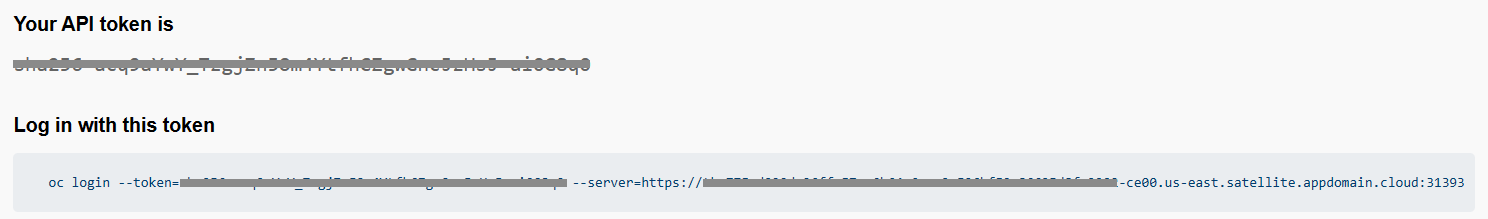
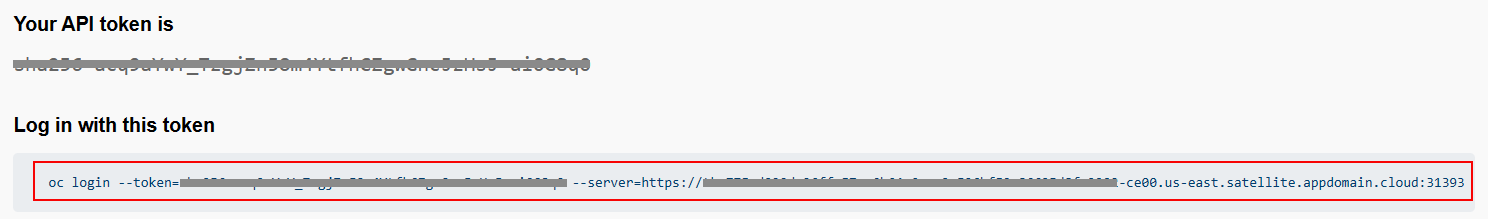
Updated Lab 1 screen shots

Changed region(s): [[0.0309, 0.7123, 0.9892, 0.7671], [0.0, 0.9041, 0.9892, 0.9315]]

diff --git a/README.md b/README.md
@@ -1,97 +1,108 @@
+<style>
+red { color: red }
+yellow { color: yellow }
+</style>
 
 # Lab 1.
 
 ## Deploy Red Hat OpenShift on Satellite Location
 
-In this lab you will be building a Red Hat OpenShift Cluster running in a Satellite Location. A Satellite Location service and a Satellite Control Plane has already been configured that will be used in this lab to deploy additional cloud services. In this Satellite location, you will have three virtual machines dedicated to you that will be utilized as workers for the Red Hat OpenShift cluster that you will be provisioning.
+### In this lab you will be building a Red Hat OpenShift Cluster running in a Satellite Location. The Satellite Location service and a Satellite Control Plane have already been configured that will be used in this lab to deploy additional cloud services. In this Satellite location, you will have two virtual machines dedicated to you that will be utilized as workers for the Red Hat OpenShift cluster that you will be provisioning. These hosts have already been attached to the Satellite location.
 
 ### Log in to the IBM Cloud console
 
-For this environment you will use a custom login screen to login to the IBM Cloud console. Please follow the link below and use the credentials provided to you by the instructors. The link to the custom IBM Cloud Login screen can also be found in the bookmark bar of the browser on your computer.
+### For this environment you will use a custom login screen to login to the IBM Cloud console. Please follow the link below and use the credentials provided to you by the instructors. The link to the custom IBM Cloud Login screen can also be found in the bookmark bar of the browser on your computer.
 
 [IBM Cloud console login](https://cloud.ibm.com/authorize/techxchange23satellite)
 
 ![Login](images/loginpage.png)
 
-When you login, you will land on the dashboard screen. From here we will want to navigate to the Satellite Locations screen. Expand the navigation menu by clicking on the top left navigation. Mouse over the Satellite tab, and select Locations from the pop out menu.
+### When you login, you will land on the dashboard screen for the account. From here you will want to navigate to the Satellite Locations screen. Expand the navigation menu by clicking on the top left navigation. Mouse over the Satellite tab, and select Locations from the pop out menu.
 
 ![Satellite Menu](images/satellitepopoutmenu.png)
 
-On the Locations screen, you will see a location already created with a name of techxchange (or similar). We will use this location. Click this location to navigate to the location detail screen.
+### On the Locations screen, you will see a location already created with a name of techxchange (or similar). We will use this location. Click this location to navigate to the location detail screen.
 
 ![Locations](images/locations-1.png)
 
-Here you will see the details of the current location and should be in a Normal state. Everyone in this lab will be sharing this location, so you will see many hosts attached to this location, however you will only need two hosts.
+### Here you will see the details of the current location and should be in a "Normal" state. Review the information on this screen. Make certain that you see "Hosts available" is two, and "Hosts total" is five.
+
+<yellow>Please locate an instructor if your location is currently in a different state, or if you do not see the available hosts.</yellow>
 
 ![Location Detail](images/locations-2.png)
 
-The next step will be to start to deploy a new service to the Satellite location. From the left navigation, click Services. Here you will see the Satellite service with a cluster name "Control plane". This is the control plane previously created by the lab instructors. This control plane will be used as the master nodes for the Red Hat OpenShift cluster you will create.
+### The next step will be to start to deploy a new service to the Satellite location. From the left navigation, click Services. Here you will see the Satellite service with a cluster name "Control plane". This is the control plane previously created by the lab instructors. In addition to being the control plane for the Satellite lcoation, the control plane hosts will be used as the master nodes for the Red Hat OpenShift cluster you will create.
 
 ![Location Services](images/locations-3.png)
 
-Click on "Create services" and a popout of available services will be displayed. Choose "Red Hat OpenShift on IBM Cloud"
+### Click on "Create services" button on the top right of the table. A popout of available services will be displayed. This is a list of the available services that can be currently deployed to a Satellite location. You will click "Red Hat OpenShift on IBM Cloud". A new window should open, and this is where you will start to make the selections to provision a Red Hat OpenShift on IBM Cloud managed cluster into your Satellite location.
 
 ![Create Service](images/createservice-1.png)
 
-Here you will select the various options to customize your Red hat OpenShift cluster.
+### Here you will select the various options to customize your Red Hat OpenShift cluster. We will go through each of these options individually. Please make certain to select the appropriate options and naming conventions, as some of the lab requires this consistency.
+
+### By default, "Custom cluster" should be selected. You will leave this option selected.
 
 ![Create Service](images/createcluster-1.png)
 
-Choose Custom Cluster (default)
-
-Infrastructure
-Choose Satellite
-Location
-
+### For Infrastructure, "Satellite" should be selected by deafault since we came in from the Satellite location Services screen. Leave this option selected.
 
 ![Create Service](images/createcluster-2.png)
 
-Resource Group select "techxchange-studentXX" with XX being your student number.
+### Location section, you will need to select the correct resource group. Select the "techxchange-studentXX" resource group, with XX being your assigned student number.
 
-Make certain the location is selected.
-
-Default worker pool
+### Make certain the Satellite location is selected by the radio button. This should be the only location, and selected by default.
 
 ![Create Service](images/createcluster-3.png)
 
-Leave host operating system as RHEL 8
-
-Worker pool zones
-uncheck "us-east-3", since we are choosing to only deploy two workers.
-
-vCPUs should be 4
-Memory should be 16
-Worker nodes per zone leave as 1
-
----
-
-**IMPORTANT**
-Default worker pool host labels
-student:XX (XX = student #)
-
-OpenShift version
-choose 4.12.XX
+### Infrastructure topology, this section should be greyed out, as our hosts are RHEL 8 servers and high availability is created by default.
 
 ![Create Service](images/createcluster-4.png)
 
-OpenShift Container Platform (OCP) license
-leave as Purchase additional licenses for this cluster
+### Default worker pool: Host operating system for these hosts are RHEL 8. This option should be selected by default. 
 
-Satellite Config
-Select "Enable cluster admin access for Staellite Config"
+### You will only be using two hosts to provision your cluster, one in zone 1 and zone 2. Uncheck the third zone.
 
-We will leave the Ingress and Encryption options off by default.
+### Each host is also configured with 4 vCPUs and 16GB memory. You will leave the worker pool options as default. You should have 4 vCPU selected and 16 GB memory. Only 1 worker per zone. 
 
-Under Cluster details, enter a name for your cluster, including your student number
-ie: ocp-student00
+![Create Service](images/createcluster-5.png)
 
-We can now click "Create".
+### IMPORTANT: enter the below host label, replacing the number with your student number. This will be used to look for available hosts in the account to use for the workers. If the host labels do not match, a cluster cannot be provisioned.
 
-If you do not receive any errors, we are now done with this portion of the lab.
+![Create Service](images/createcluster-6.png)
 
-During this time, we will let the cluster go through the provisioning process and rejoin back to the lab upon completion.
+### If you see the below error message when entering or completing adding the worker pool host label, you may need to uncheck the third zone from the worker pool options above again.
 
-<br>
+![Create Service](images/createcluster-7.png)
+
+### OpenShift version: we can leave the default recommended version that is set by default.
+
+![Create Service](images/createcluster-8.png)
+
+### OpenShift Container Platform (OCP) license: leave "Purchase additional licenses for this cluster" selected.
+
+![Create Service](images/createcluster-9.png)
+
+### Satellite Config: Select "Enable cluster admin access for Staellite Config"
+
+![Create Service](images/createcluster-10.png)
+
+### We will leave the Ingress and Encryption options off by default.
+
+![Create Service](images/createcluster-11.png)
+
+### Under Cluster details, enter a name for your cluster, including your student number. Preferably use the format in the example, as some later CLI commands use this format and can make it easier to paste.
+### ie: ocp-student1
+
+![Create Service](images/createcluster-12.png)
+
+### You can now click the "Create" button in the bottom right.
+
+### If you do not receive any errors, you should then be redirected to a screen that looks like the one below.
+
+![Create Service](images/createcluster-13.png)
+
+### During this time, we will let the cluster go through the provisioning process and rejoin back to the lab upon completion.
 
 <br>
 
@@ -117,69 +128,52 @@ During this time, we will let the cluster go through the provisioning process an
 
 ## Publicly expose the cluster
 
-At this point you should have a healthy running Red Hat OpenShift cluster running in the Satellite location. We will now take steps to adjust the workers to allow for the console service to be running on public IPs so we can gain access to the console.
+At this point you should have a healthy Red Hat OpenShift cluster running in the Satellite location. The Red Hat OpenShift console can be accessed via the private network only. You will now take steps to adjust the cluster configuration to allow for the console service to be accessed by the public IPs.
 
-* Add steps
+From the IBM Cloud Console, open the IBM Cloud Shell by clicking the Cloud Shell icon in the top right.
 
-Get Floating IPs
+![Create Service](images/cloudshell-link.png)
 
-Cloud Shell
+Now you should see the IBM Cloud Shell interface. Your session is automatically configured and authenticated with your student IAM account. You can now issue both IBM Cloud CLI and Red Hat OpenShift (oc) CLI commands.
 
-Switch region if needed
+![Cloud Shell](images/cloudshell-1.png)
+
+Take note of the region in which your session is running in the output of the Cloud Shell. Switch to the appropriate region if required.
 
 ```sh
+# Students 1-10 use region us-south
 ibmcloud target -r us-south
+
+# Students 11-20 use region us-east
+ibmcloud target -r us-east
 ```
 
-Get a list of the virtual servers and save floating IPs
+In the following block of code, you will capture the private and public IPs of the worker nodes. You will then replace the IPs for the Network Load Balancer DNS that exposes the cluster UI. * Note: You may need to alter the command below to match your cluster name if you did not name it with the suggested name format earlier.
 
 ```sh
-ibmcloud is instances
-```
+# Get the private IPs for the worker nodes of the OpenShift cluster
+OLDIP1=$(ibmcloud is instances | grep student[0-9]*-worker-1 | awk '{print $4}')
+OLDIP1=$(ibmcloud is instances | grep student[0-9]*-worker-2 | awk '{print $4}')
 
-```sh
-NEWIP1=<1st ip>
-NEWIP2=<2nd ip>
-```
+# Get the public IPs for the worker nodes of the OpenShift cluster
+NEWIP1=$(ibmcloud is instances | grep student[0-9]*-worker-1 | awk '{print $5}')
+NEWIP2=$(ibmcloud is instances | grep student[0-9]*-worker-2 | awk '{print $5}')
 
+# Get the OpenShift cluster ID and the Load Balancer Hostname and set to environment variables
+CLUSTERID=$(ibmcloud oc clusters | grep ocp-student[0-9]* | awk '{print $2}')
+NLBHOST=$(ibmcloud oc nlb-dns ls --cluster $CLUSTERID | grep ocp-student[0-9]* | awk '{print $1}')
 
-Get a list of clusters
-
-```sh
-ibmcloud oc clusters
-```
-
-Set the ClusterID to a environment variable
-
-```sh
-CLUSTERID=<clusterid>
-```
-
-Capture the Cluster NLB DNS Hostname, and save each of the existing IPs
-
-```sh
-ibmcloud oc nlb-dns ls --cluster $CLUSTERID
-NLBHOST=<nlbhost>
-OLDIP1=<1st ip>
-OLDIP2=<2nd ip>
-```
-
-
-Add the NEW IPs to the NLB DNS
-
-```sh
+# Add the NEW Public IPs to the NLB DNS
 ibmcloud oc nlb-dns add --cluster $CLUSTERID --nlb-host $NLBHOST --ip $NEWIP1
 ibmcloud oc nlb-dns add --cluster $CLUSTERID --nlb-host $NLBHOST --ip $NEWIP2
-```
 
-Remove the OLD IPs from the NLB DNS
-
-```sh
+# Remove the OLD Private IPs from the NLB DNS
 ibmcloud oc nlb-dns rm classic --cluster $CLUSTERID --nlb-host $NLBHOST --ip $OLDIP1
 ibmcloud oc nlb-dns rm classic --cluster $CLUSTERID --nlb-host $NLBHOST --ip $OLDIP2
+
+# Verify the OCP Cluster DNS is now configured for public access
+ibmcloud oc nlb-dns ls --cluster $CLUSTERID
 ```
-
-
 
 Now you can test the openshift console. You may need to wait a few minutes for the DNS TTL to lapse.
 
@@ -207,25 +201,67 @@ Now you can test the openshift console. You may need to wait a few minutes for t
 
 <br>
 
-# Lab 2. Setup logging
+# Lab 2. Setup Day two operational tools and deploy sample application
 
-### In this lab we will be configuring IBM Cloud Logging on the OpenShift cluster. We can open the IBM Cloud Shell to issue the OpenShift CLI commands. We will need to first get a login command.
+In this lab you will be configuring IBM Cloud Logging and IBM Cloud Monitoring on the OpenShift cluster. You will perform various steps on the command line. You can use the IBM Cloud Shell to issue the IBM Cloud and OpenShift CLI commands in this lab. You will need to first get a Red Hat OpenShift login command from your cluster to login via the CLI.
+
+Alternatively you can also use an IBM Cloud CLI command to login to your cluster. Both steps are listed below, you only need to pick one process.
+
+### Login command via OpenShift Cluster UI
+
+Access your cluster in the IBM Console by selecting OpenShift -> Clusters in the Menu. You should then see your cluster listed. 
+
+![Create Service](images/clusters.png)
+
+Click your cluster to go to the cluster detail screen.
 
 ![Create Service](images/cluster-1.png)
 
+On the cluster detail screen, you will see a button on the top right, "OpenShift web console". Click this button.
+
 ![Create Service](images/cluster-2.png)
 
-![Create Service](images/cluster-3.png)
-Click Display Token
+You will now automatically be logged into your Red Hat OpenShift cluster via the IBM IAM credentials for your student account. You will see in the top right of this screen, your IAM name. Click this to open the menu, then select "Copy login command".
 
-Copy Login Command
+![Create Service](images/cluster-3.png)
+
+On this screen, all that you will see is "Display Token". Click this link to display the OpenShift login information.
+
+Copy the "Log in with this token" command.
+
 ![Create Service](images/cluster-4.png)
 
 
-Go back to the IBM Cloud Console and Open the IBM Cloud Shell, on the top right.
+Go back to the IBM Cloud Console and Open the IBM Cloud Shell by clicking the Cloud Shell icon in the top right.
+
 ![Create Service](images/cloudshell-link.png)
 
+Now you should see the IBM Cloud Shell interface. Your session is automatically configured and authenticated with your student IAM account. You can now issue both IBM Cloud CLI and Red Hat OpenShift (oc) CLI commands.
+
 ![Cloud Shell](images/cloudshell-1.png)
+
+In the IBM Cloud Shell, paste the Red Hat OpenShift login command you copied previously and execute. You will then be authenticated to your cluster.
+
+Again, Alternatively, you could set your cluster context for the OpenShift CLI by getting config details for your cluster via the IBM Cloud CLI. This step is optional if you already followed the process above to login to your cluster for the CLI.
+
+```sh
+ibmcloud oc cluster config --cluster <clustername> --admin
+```
+
+<br>
+
+### Install IBM Cloud Monitoring agent to the cluster
+
+The first step, you will need to create a secret in your cluster for the docker registry. Execute the command below in the IBM Cloud Shell.
+```sh
+oc -n default create secret docker-registry all-icr-io --docker-username=ibmapikey --docker-password=all-icr-io
+```
+
+```sh
+curl -sL https://ibm.biz/install-sysdig-k8s-agent | bash -s -- -a 42db7192-63b3-4e83-82d0-ba72c6451836 -c ingest.us-south.monitoring.cloud.ibm.com -ac 'sysdig_capture_enabled: false' --openshift
+```
+
+### Install IBM Cloud Logging Agent to the cluster
 
 In the following steps, you will be deploying the logging agent to your cluster. The steps taken are below for informational, and the commands you need to run are available as well. The agent key is specific to the shared loggin instance of this account.
 
@@ -252,16 +288,45 @@ oc create -f https://assets.us-east.logging.cloud.ibm.com/clients/logdna-agent/3
 
 After you configure a log source, launch the IBM Log Analysis UI by selecting Open dashboard. It may take a few minutes before you start seeing logs.
 
-# Lab 3. Deploy a sample application
+
+# Create Container Registry Pull Secret
+
+To configure Red Hat OpenShift Container Platform to pull from Container Registry, 
+
+
+Configure Red Hat OpenShift Container Platform to use the image pull secrets by adding the secrets to a service account in each project or by referring to the secret in your pod deployment. You are only required to add the secret to the projects that you want to pull to.
+
+**********
+ibmcloud iam service-id-create techxchange-registry-id --description "Service ID for IBM Cloud Container Registry and Red Hat OpenShift on IBM Cloud"
+
+
+ibmcloud iam service-policy-create ServiceId-d597fefb-f2f5-4d04-b172-39b86cc803e4 --roles Manager --service-name container-registry --region global --resource-type namespace --resource techxchange2023-satellite
+
+
+ibmcloud iam service-api-key-create techxchange-registry-key techxchange-registry-id --description "API key for service ID and Red Hat OpenShift on IBM Cloud cluster"
+
+WbHJo4t6Qxbz1RAcbQRA7BBeMi8oXqTJ6LoFAeAlQ32X
+
+oc --namespace default create secret docker-registry techxchange-docker-registry --docker-server=icr.io --docker-username=iamapikey --docker-password=WbHJo4t6Qxbz1RAcbQRA7BBeMi8oXqTJ6LoFAeAlQ32X --docker-email=student@ibm.edu
+******************
+
+ibmcloud iam service-api-key-create techxchange-registry-key techxchange-registry-id --description "API key for service ID and Red Hat OpenShift on IBM Cloud cluster"
+
+(maybe do this in the UI when deployign the app?)
+
+oc --namespace $APPNAMESPACE create secret docker-registry techxchange-docker-registry --docker-server=icr.io --docker-username=iamapikey --docker-password=$REGISTRYAPIKEY --docker-email=student@ibm.edu
+
+
+# Deploy a sample application
 
 ### Need to patch registry if not managed
 
 ibmcloud oc cluster config --cluster <cluster> -- admin
-oc patch configs.imageregistry.operator.openshift.io cluster --type merge --patch '{"spec":{"managementState":"Managed"}}'
+
+Remove: oc patch configs.imageregistry.operator.openshift.io cluster --type merge --patch '{"spec":{"managementState":"Managed"}}'
 
 
-##
-Login to openshift
+icr.io/techxchange2023-satellite/endpoints:0.0.1
 
-github link here for repo
+
 
